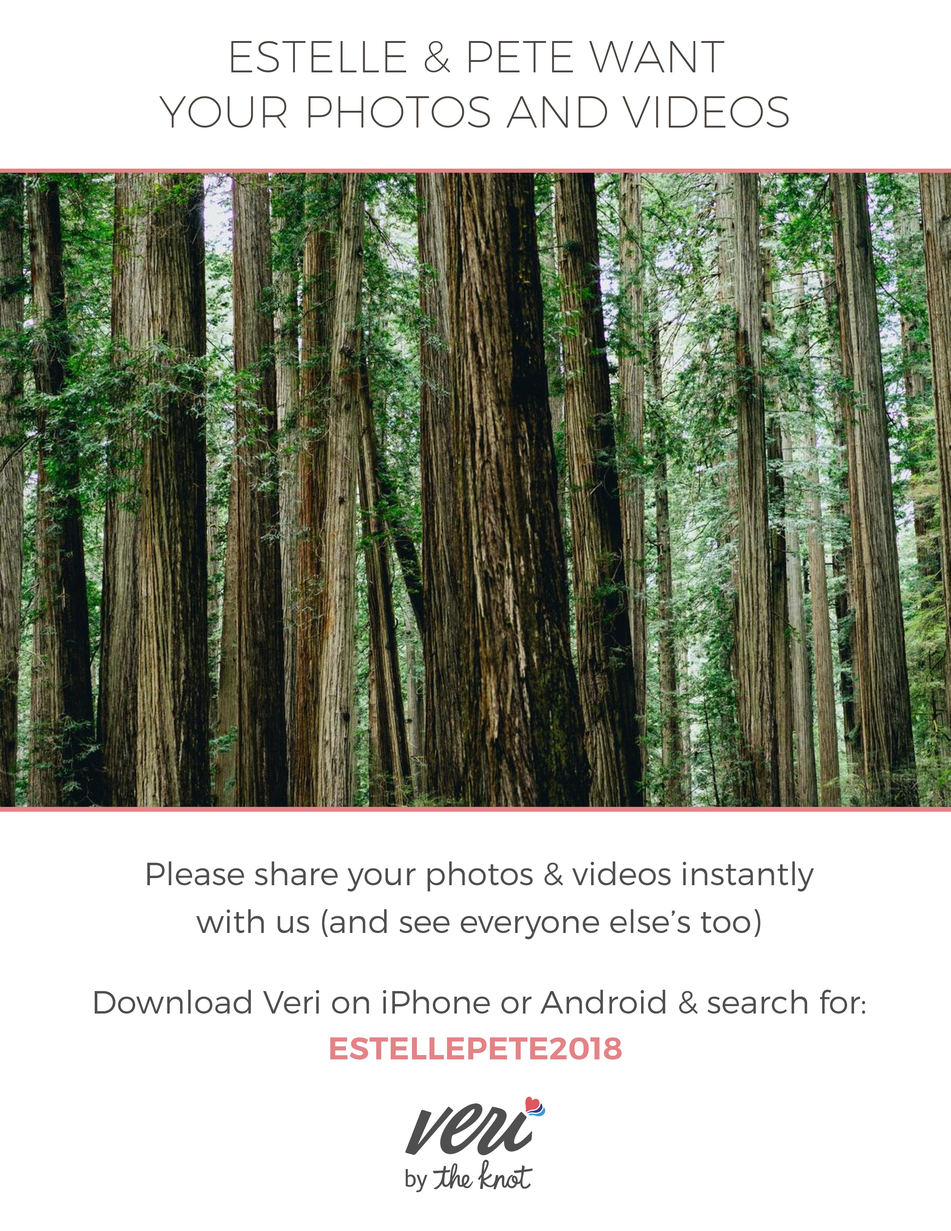
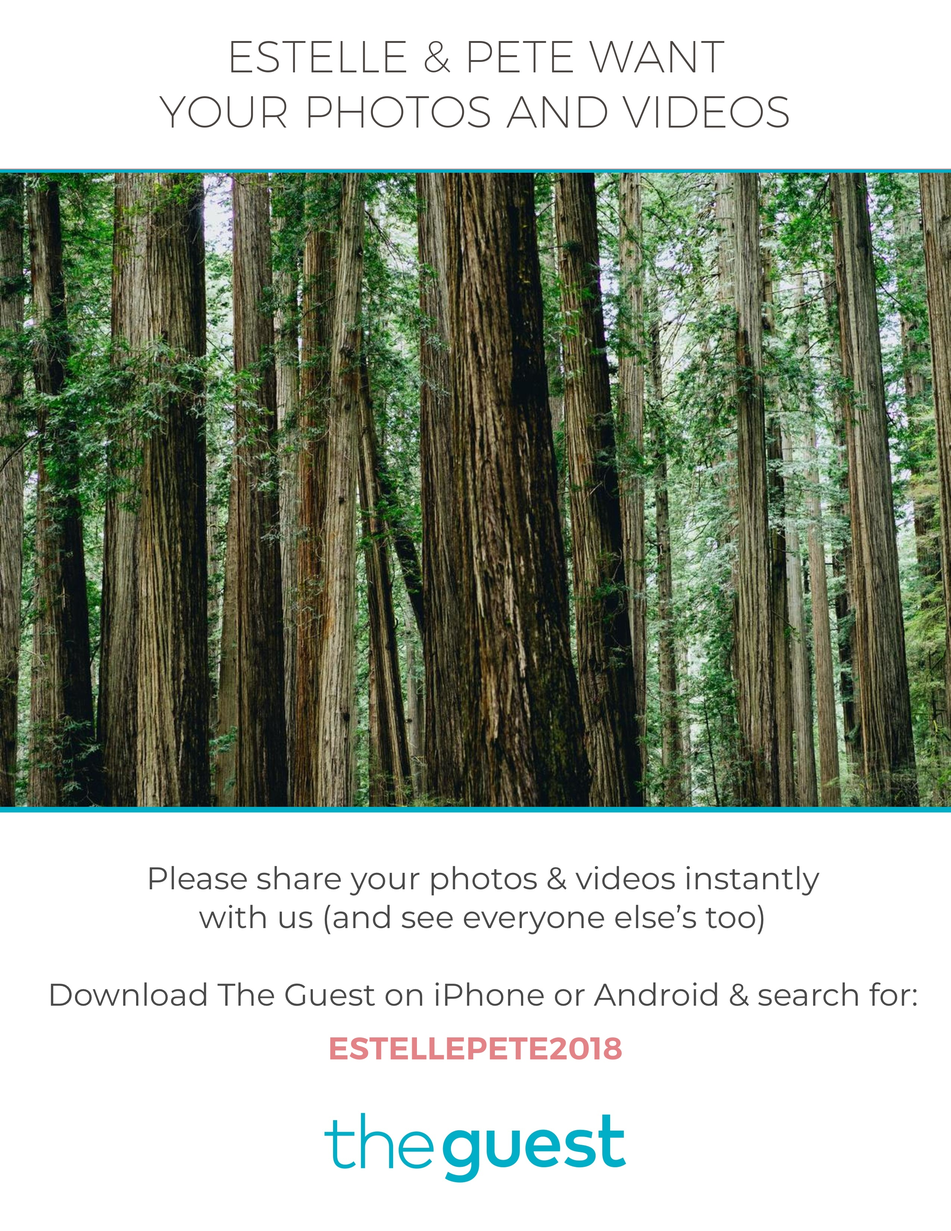
Updated the veri page with its new name and poster

Changed region(s): [[0.0, 0.6555, 1.0, 0.8427], [0.0, 0.1248, 1.0, 0.1561], [0.3408, 0.8739, 0.6506, 0.9676]]

diff --git a/static/theguest/index.html b/static/theguest/index.html
@@ -25,7 +25,7 @@
                             <a href="/timeline">Timeline</a>
                             <a href="/gifts">Gifts</a>
                             <a href="/rsvp">RSVP</a>
-                            <a href="/veri" class="selected">Veri</a>
+                            <a href="/theguest" class="selected">The Guest</a>
                         </div>
                         <button class="hamburger hamburger--spin" type="button" data-toggle="collapse" data-target="#navbar-collapse" >
                             <span class="hamburger-box">
@@ -41,16 +41,16 @@
                             <a href="/timeline">Timeline</a>
                             <a href="/gifts">Gifts</a>
                             <a href="/rsvp">RSVP</a>
-                            <a href="/veri" class="selected">Veri</a>
+                            <a href="/theguest" class="selected">The Guest</a>
                         </ul>
                     </div>
             </nav>
         </header>
 
         <section>
-            <h1>Veri</h1>
+            <h1>The Guest</h1>
             <a href="http://in.veri.com/to/estellepete2018">
-                <img class="veri-img" src="/img/veri.jpeg" style="width: 100%"/>
+                <img class="theguest-img" src="/img/theguest.jpeg" style="width: 100%"/>
             </a>
         </section>
         

diff --git a/static/gifts/index.html b/static/gifts/index.html
@@ -26,7 +26,7 @@
                             <a href="/timeline">Timeline</a>
                             <a href="/gifts" class="selected">Gifts</a>
                             <a href="/rsvp">RSVP</a>
-                            <a href="/veri">Veri</a>
+                            <a href="/theguest">The Guest</a>
                         </div>
                         <button class="hamburger hamburger--spin" type="button" data-toggle="collapse" data-target="#navbar-collapse" >
                             <span class="hamburger-box">
@@ -42,7 +42,7 @@
                             <a href="/timeline">Timeline</a>
                             <a href="/gifts" class="selected">Gifts</a>
                             <a href="/rsvp">RSVP</a>
-                            <a href="/veri">Veri</a>
+                            <a href="/theguest">The Guest</a>
                         </ul>
                     </div>
             </nav>

diff --git a/static/rsvp/index.html b/static/rsvp/index.html
@@ -26,7 +26,7 @@
                             <a href="/timeline">Timeline</a>
                             <a href="/gifts">Gifts</a>
                             <a href="/rsvp" class="selected">RSVP</a>
-                            <a href="/veri">Veri</a>
+                            <a href="/theguest">The Guest</a>
                         </div>
                         <button class="hamburger hamburger--spin" type="button" data-toggle="collapse" data-target="#navbar-collapse" >
                             <span class="hamburger-box">
@@ -42,7 +42,7 @@
                             <a href="/timeline">Timeline</a>
                             <a href="/gifts">Gifts</a>
                             <a href="/rsvp" class="selected">RSVP</a>
-                            <a href="/veri">Veri</a>
+                            <a href="/theguest">The Guest</a>
                         </ul>
                     </div>
             </nav>

diff --git a/static/timeline/index.html b/static/timeline/index.html
@@ -25,7 +25,7 @@
                             <a href="/timeline" class="selected">Timeline</a>
                             <a href="/gifts">Gifts</a>
                             <a href="/rsvp">RSVP</a>
-                            <a href="/veri">Veri</a>
+                            <a href="/theguest">The Guest</a>
                         </div>
                         <button class="hamburger hamburger--spin" type="button" data-toggle="collapse" data-target="#navbar-collapse" >
                             <span class="hamburger-box">
@@ -41,7 +41,7 @@
                             <a href="/timeline" class="selected">Timeline</a>
                             <a href="/gifts">Gifts</a>
                             <a href="/rsvp">RSVP</a>
-                            <a href="/veri">Veri</a>
+                            <a href="/theguest">The Guest</a>
                         </ul>
                     </div>
             </nav>

diff --git a/static/celebration/index.html b/static/celebration/index.html
@@ -26,7 +26,7 @@
                             <a href="/timeline">Timeline</a>
                             <a href="/gifts">Gifts</a>
                             <a href="/rsvp">RSVP</a>
-                            <a href="/veri">Veri</a>
+                            <a href="/theguest">The Guest</a>
                         </div>
                         <button class="hamburger hamburger--spin" type="button" data-toggle="collapse" data-target="#navbar-collapse" >
                             <span class="hamburger-box">
@@ -42,7 +42,7 @@
                             <a href="/timeline">Timeline</a>
                             <a href="/gifts">Gifts</a>
                             <a href="/rsvp">RSVP</a>
-                            <a href="/veri">Veri</a>
+                            <a href="/theguest">The Guest</a>
                         </ul>
                     </div>
             </nav>

diff --git a/static/details/index.html b/static/details/index.html
@@ -26,7 +26,7 @@
                             <a href="/timeline">Timeline</a>
                             <a href="/gifts">Gifts</a>
                             <a href="/rsvp">RSVP</a>
-                            <a href="/veri">Veri</a>
+                            <a href="/theguest">The Guest</a>
                         </div>
                         <button class="hamburger hamburger--spin" type="button" data-toggle="collapse" data-target="#navbar-collapse" >
                             <span class="hamburger-box">
@@ -42,7 +42,7 @@
                             <a href="/timeline">Timeline</a>
                             <a href="/gifts">Gifts</a>
                             <a href="/rsvp">RSVP</a>
-                            <a href="/veri">Veri</a>
+                            <a href="/theguest">The Guest</a>
                         </ul>
                     </div>
             </nav>

diff --git a/static/index.html b/static/index.html
@@ -23,7 +23,7 @@
                       <a href="/timeline">Timeline</a>
                       <a href="/gifts">Gifts</a>
                       <a href="/rsvp">RSVP</a>
-                      <a href="/veri">Veri</a>
+                      <a href="/theguest">The Guest</a>
                   </div>
                   <button class="hamburger hamburger--spin" type="button" data-toggle="collapse" data-target="#navbar-collapse" style="position: relative; margin: 0 auto;">
                       <span class="hamburger-box">
@@ -39,7 +39,7 @@
                       <a href="/timeline">Timeline</a>
                       <a href="/gifts">Gifts</a>
                       <a href="/rsvp">RSVP</a>
-                      <a href="/veri">Veri</a>
+                      <a href="/theguest">The Guest</a>
                   </ul>
               </div>
           </nav>

diff --git a/static/css/stylesheet.css b/static/css/stylesheet.css
@@ -697,7 +697,7 @@ input, textarea {
   }
 }
 
-.veri-img {
+.theguest-img {
     width: 100%;
     max-width: 600px;
     margin: 0 auto;
